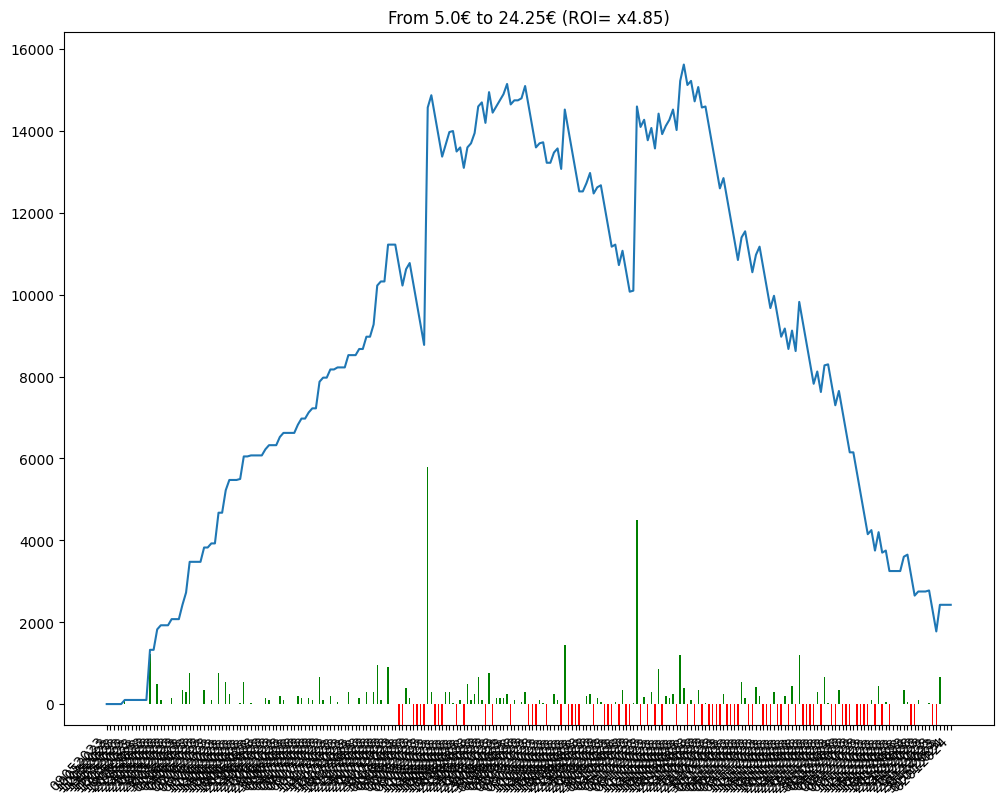
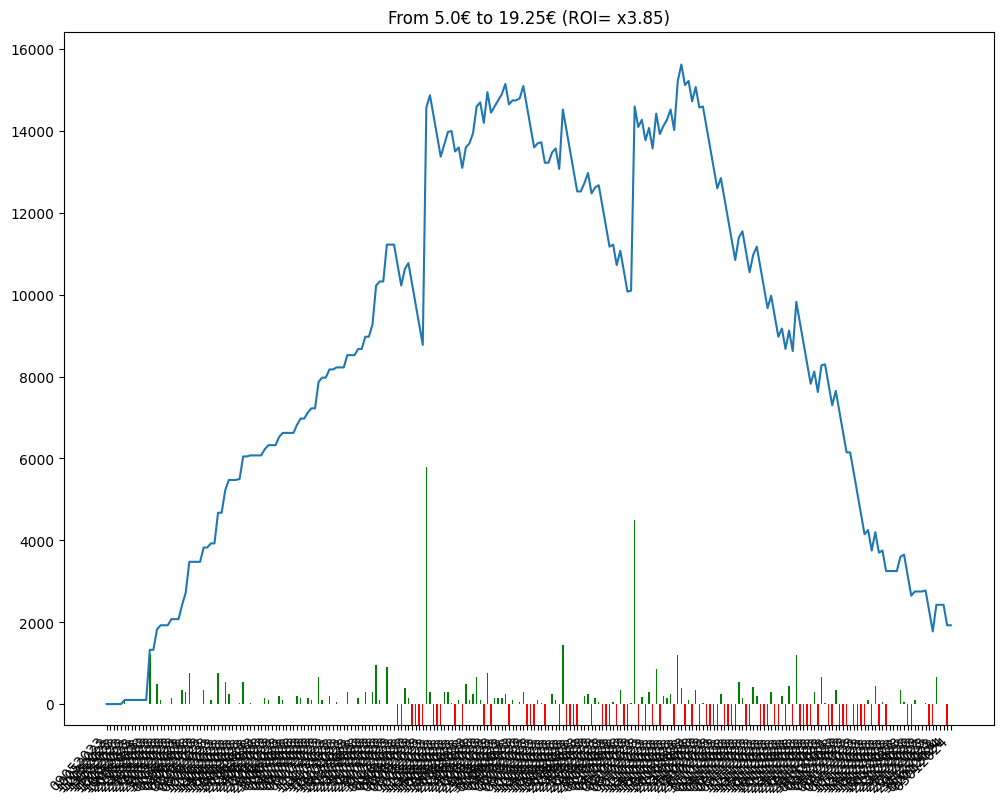
comment from python script

diff --git a/bethistory.html b/bethistory.html
@@ -86,7 +86,8 @@
             En observant la courbe 🤔, on peut avoir une idée visuelle de l'évolution des gains et ainsi évaluer le model utilisé 🧑🏫.
         </p>
         
-        <img src = "/candle.png" alt="candle chart"/><table><tr><td>Chevaux joués</td><td>Gains</td><td>URL Circuits</td></tr><tr><td>3 - VLASIKHOVA</td><td>0</td><td><a href=https://www.pmu.fr/turf/02012024/r1/c4 target="_blank">https://www.pmu.fr/turf/02012024/r1/c4</a></td></tr>
+        <img src = "/candle.png" alt="candle chart"/><table><tr><td>Chevaux joués</td><td>Gains</td><td>URL Circuits</td></tr><tr><td>4 - SA SAL</td><td>0</td><td><a href=https://www.pmu.fr/turf/03012024/r4/c5 target="_blank">https://www.pmu.fr/turf/03012024/r4/c5</a></td></tr>
+<tr><td>3 - VLASIKHOVA</td><td>-500</td><td><a href=https://www.pmu.fr/turf/02012024/r1/c4 target="_blank">https://www.pmu.fr/turf/02012024/r1/c4</a></td></tr>
 <tr><td>4 - MERLIN</td><td>+650</td><td><a href=https://www.pmu.fr/turf/30122023/r2/c2 target="_blank">https://www.pmu.fr/turf/30122023/r2/c2</a></td></tr>
 <tr><td>1 - MAGNOLIA MIDNIGHT</td><td>-500</td><td><a href=https://www.pmu.fr/turf/29122023/r6/c7 target="_blank">https://www.pmu.fr/turf/29122023/r6/c7</a></td></tr>
 <tr><td>7 - WENGEN</td><td>-500</td><td><a href=https://www.pmu.fr/turf/27122023/r5/c10 target="_blank">https://www.pmu.fr/turf/27122023/r5/c10</a></td></tr>
